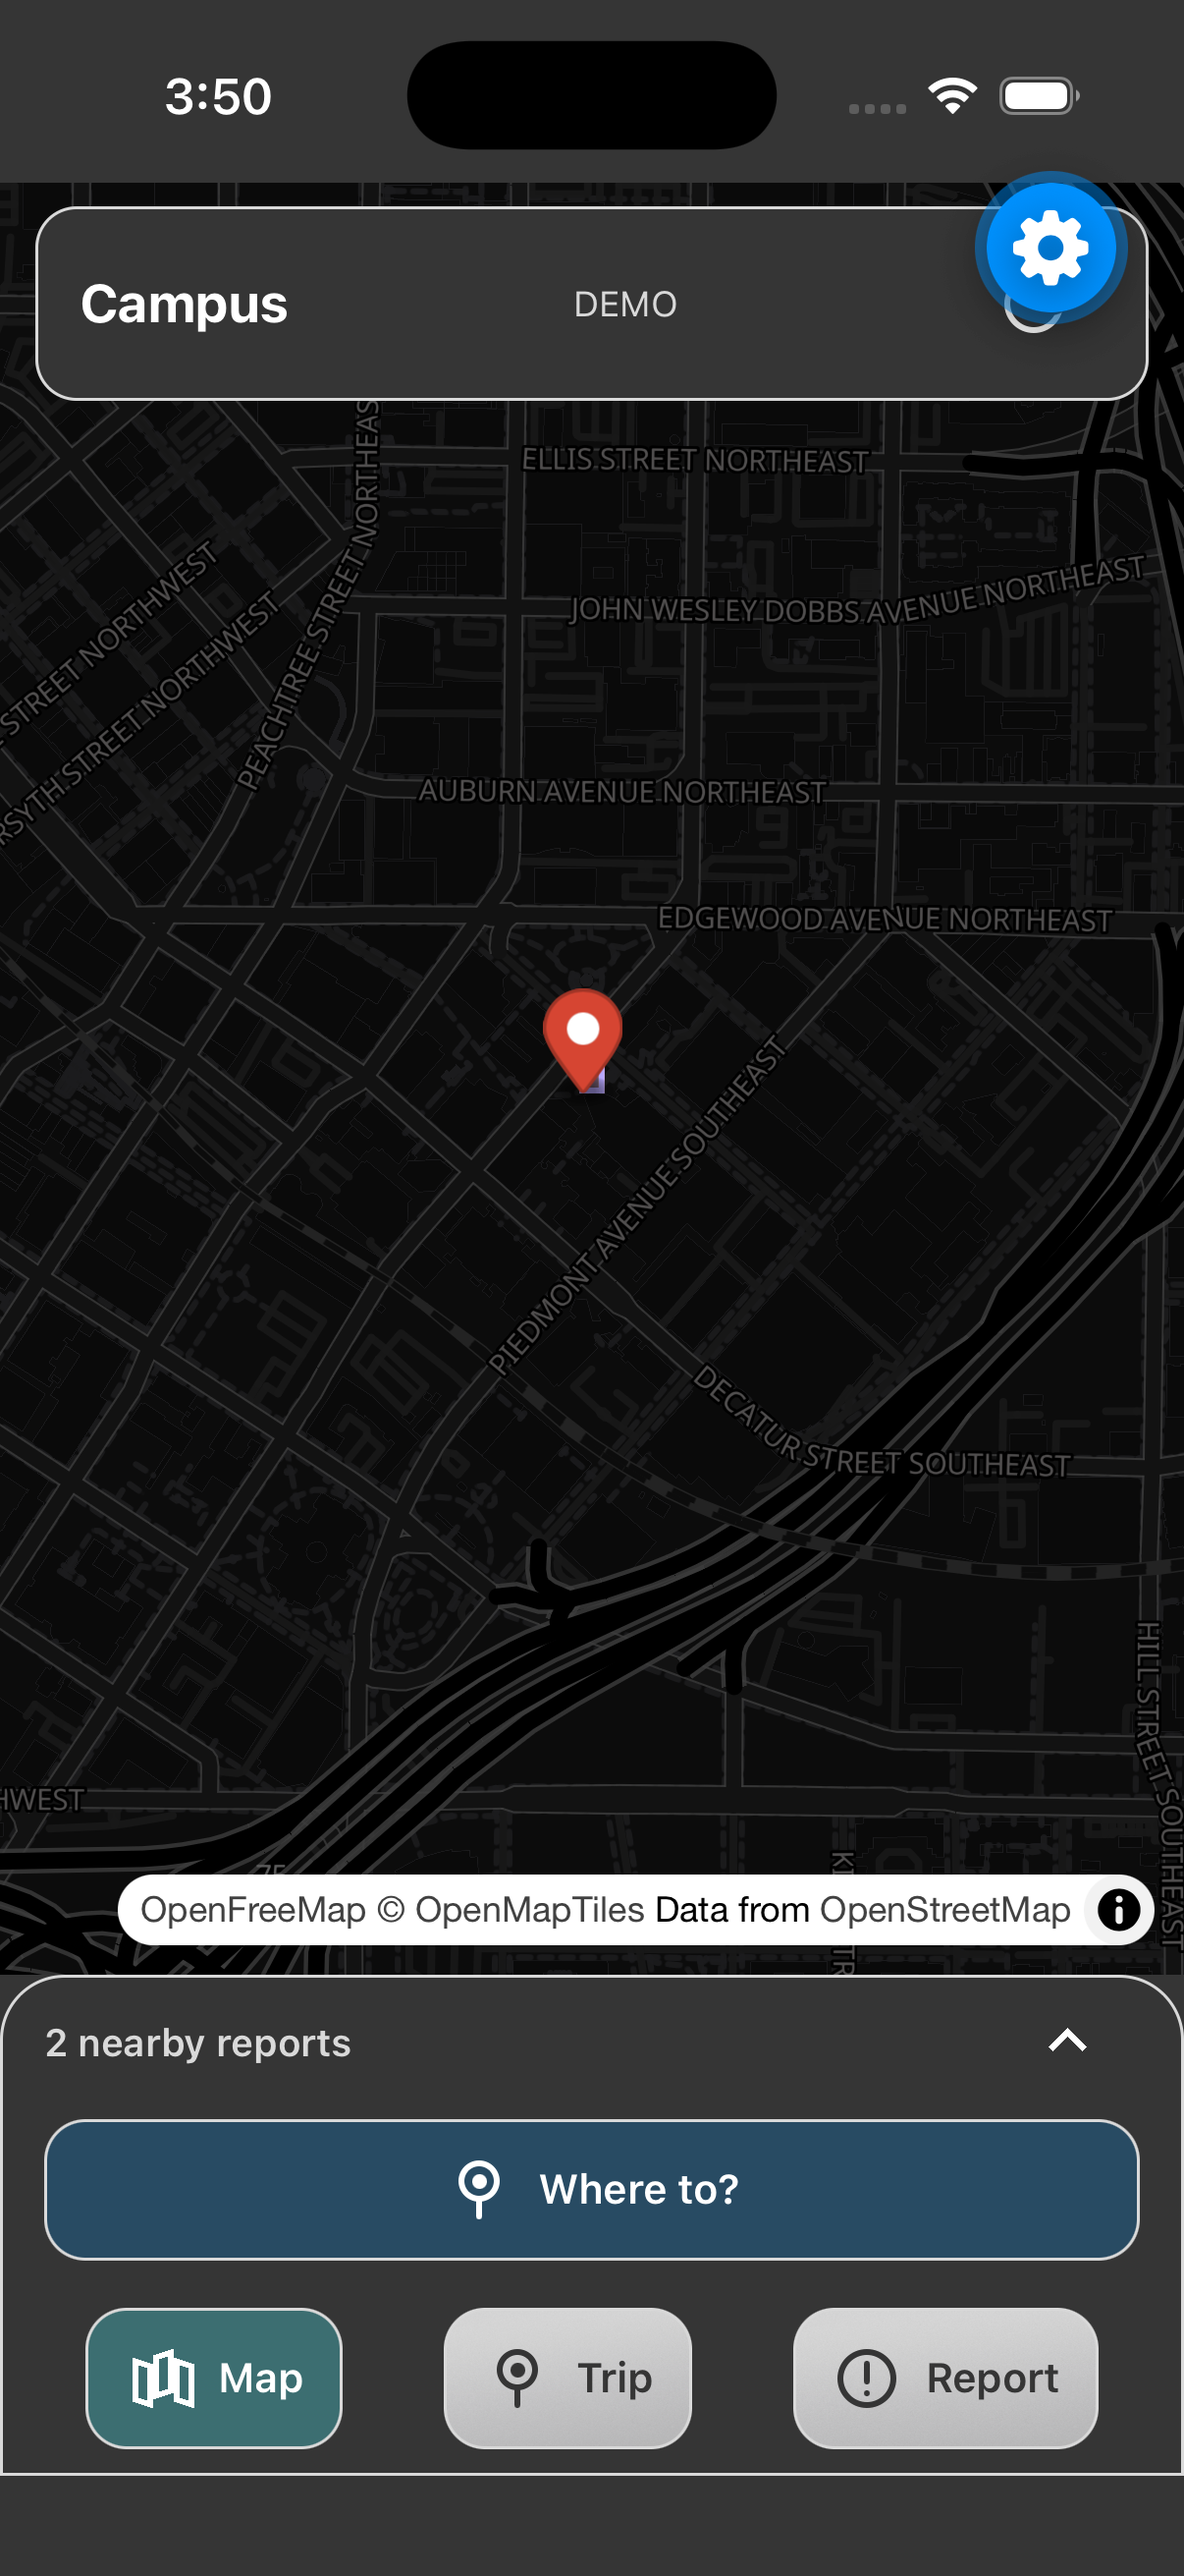
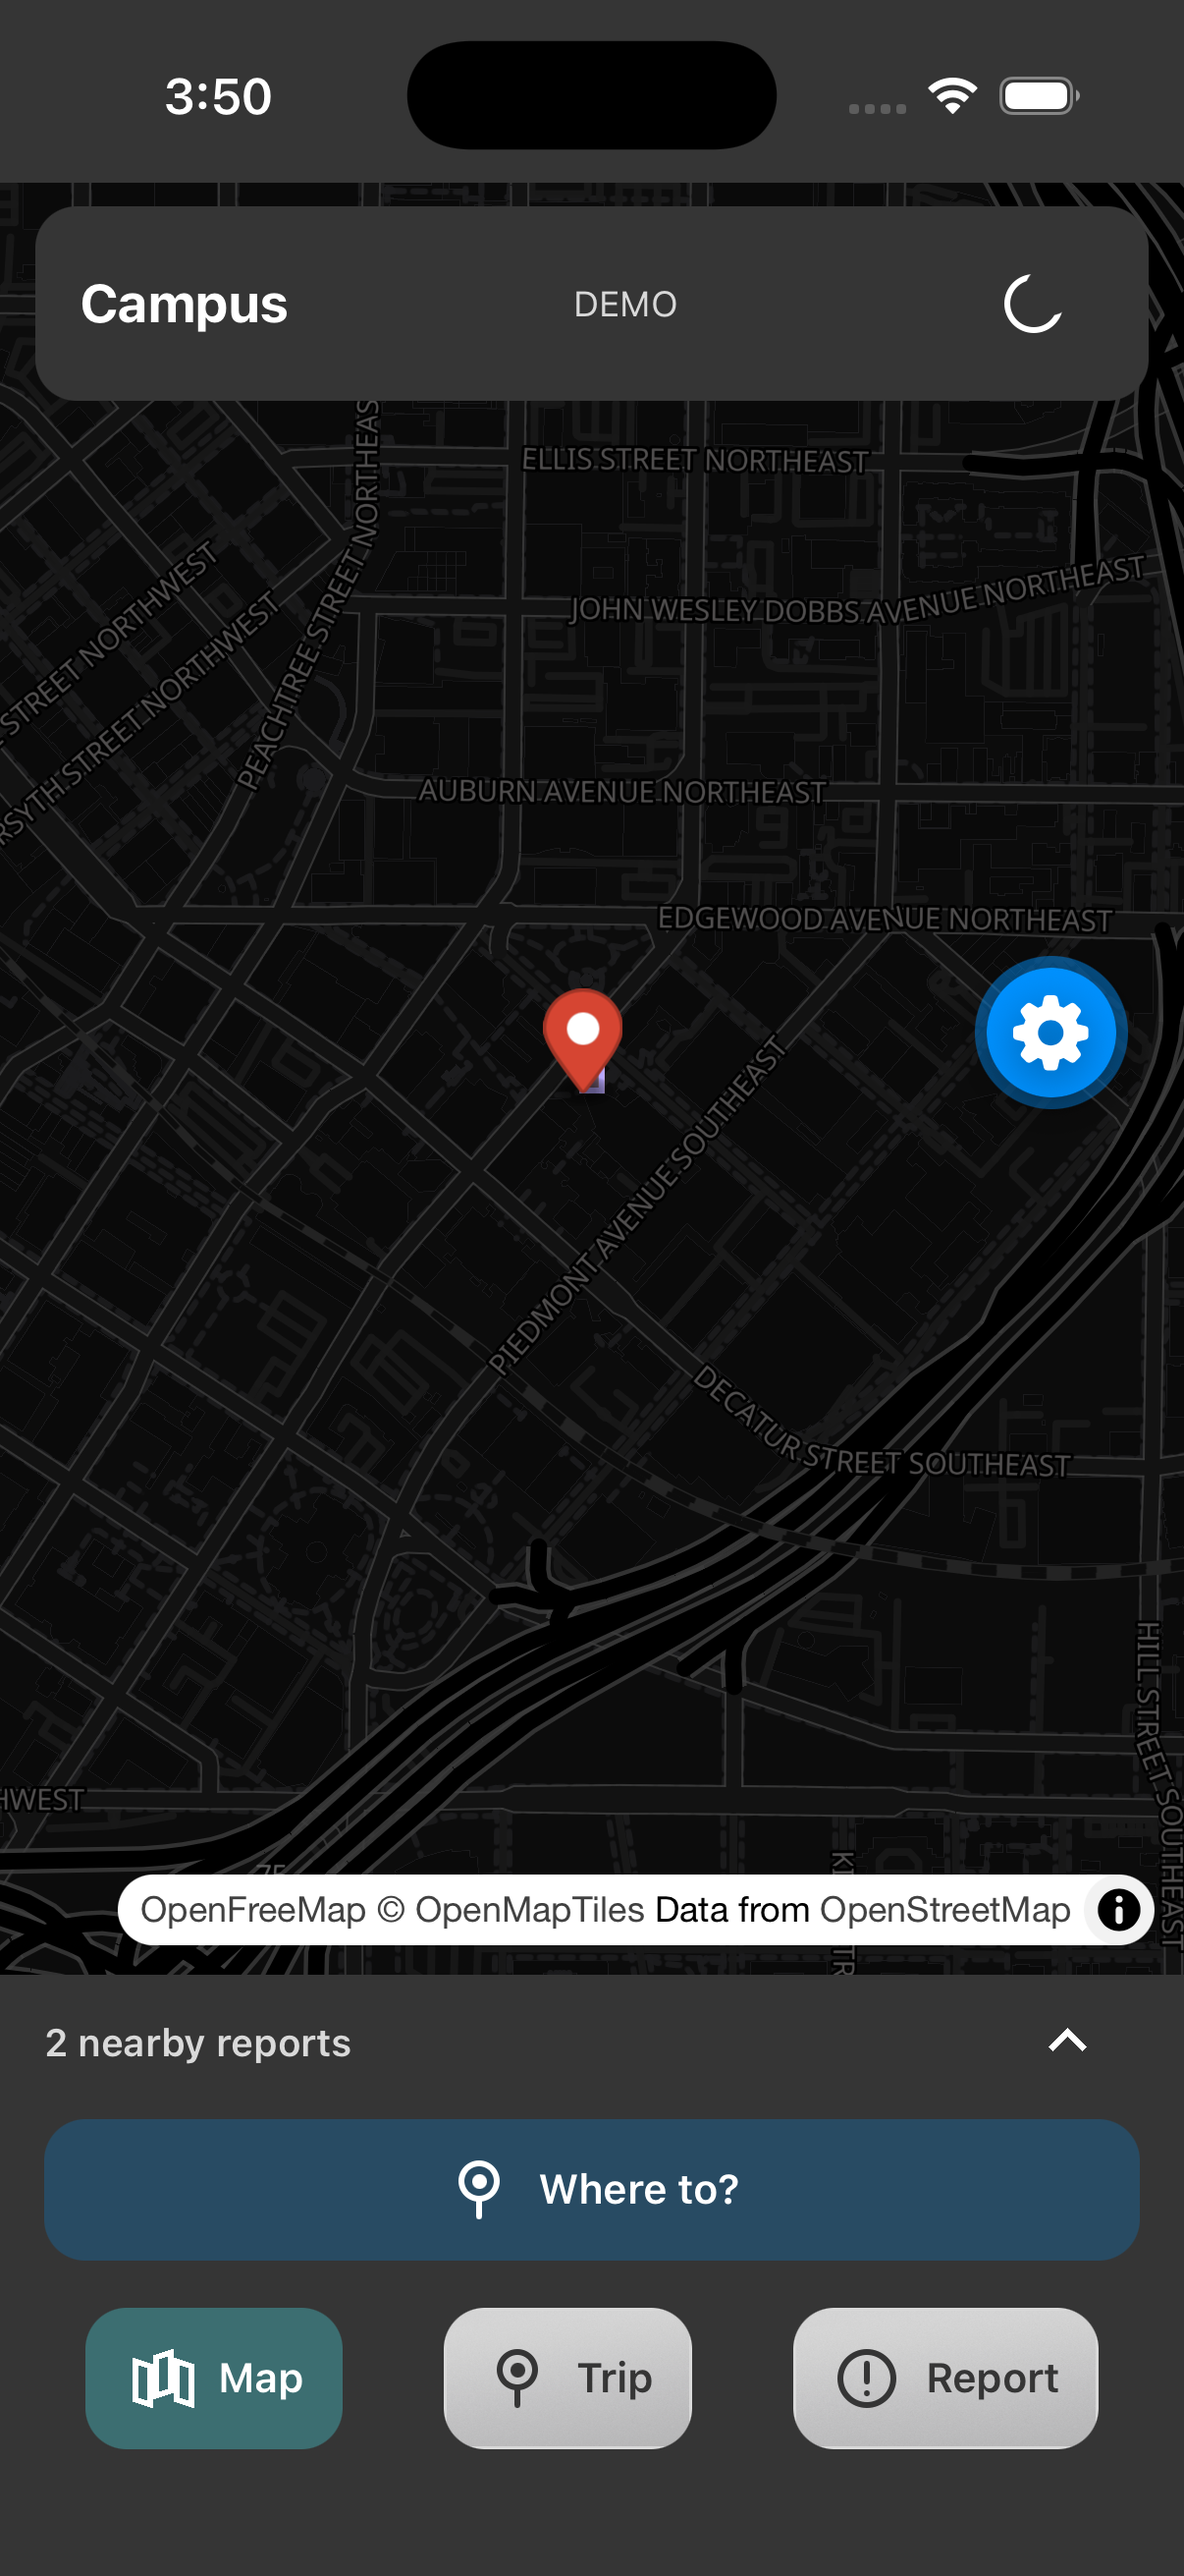
Remove silver outlines from dark appearance

diff --git a/mobile/App.tsx b/mobile/App.tsx
@@ -259,7 +259,7 @@ const createStyles = (theme: Theme) => StyleSheet.create({
   categoryLabelSelected: { color: theme.inverse },
   content: { flexShrink: 1 }, contentInner: { paddingBottom: 8 },
   caption: { fontSize: 12, lineHeight: 18, color: theme.muted },
-  source: { color: theme.selectedEdge, fontSize: 12, fontWeight: '600' },
+  source: { color: theme.ink, fontSize: 12, fontWeight: '600' },
   card: { paddingVertical: 10, borderBottomWidth: 1, borderColor: theme.line },
   heading: { fontSize: 16, fontWeight: '600', color: theme.ink, marginVertical: 4 },
   input: { color: theme.ink, backgroundColor: theme.surface, borderWidth: 1, borderColor: theme.line, borderRadius: theme.radius,

diff --git a/mobile/src/ui/theme.ts b/mobile/src/ui/theme.ts
@@ -19,8 +19,8 @@ const light = {
 export type Theme = typeof light;
 const dark: Theme = {
   ...light, ink: palette.white, muted: palette.silver, surface: palette.charcoal,
-  canvas: palette.charcoal, quiet: palette.silver, line: palette.silver,
-  selectedEdge: palette.silver, primaryEdge: palette.silver,
+  canvas: palette.charcoal, quiet: palette.silver, line: 'transparent',
+  selectedEdge: palette.cyan, primaryEdge: palette.blue,
   warning: palette.silver, danger: '#ffb4ab', routeShortest: palette.silver,
 };
 type Appearance = 'light' | 'dark';

diff --git a/mobile/docs/UI-GUIDE.md b/mobile/docs/UI-GUIDE.md
@@ -40,8 +40,10 @@ See [decision 014](../../docs/decisions/014-silver-cyan-mobile-palette.md).
 | `#353535` charcoal | Light-mode text; dark-mode surfaces |
 | `#3c6e71` teal/cyan | Selected controls and lower-risk route accent |
 | `#ffffff` white | Light surfaces; selected/primary and dark-mode foreground |
-| `#d9d9d9` metallic silver | Dividers, dark-mode outlines and secondary foreground |
+| `#d9d9d9` metallic silver | Light-mode dividers, metallic controls and dark-mode secondary foreground |
 | `#284b63` deep blue | Primary action and light-mode notices |
+
+Dark-mode panels and controls have no silver outlines; colored control edges match their fill.
 
 Device appearance supplies the initial mode; the header switch overrides UI and map together for this session (decision 016). Silver secondary buttons and unselected hazard categories use the operator-supplied metal
 grain at 22% opacity over silver, with charcoal labels in both appearances. Keep the map,
